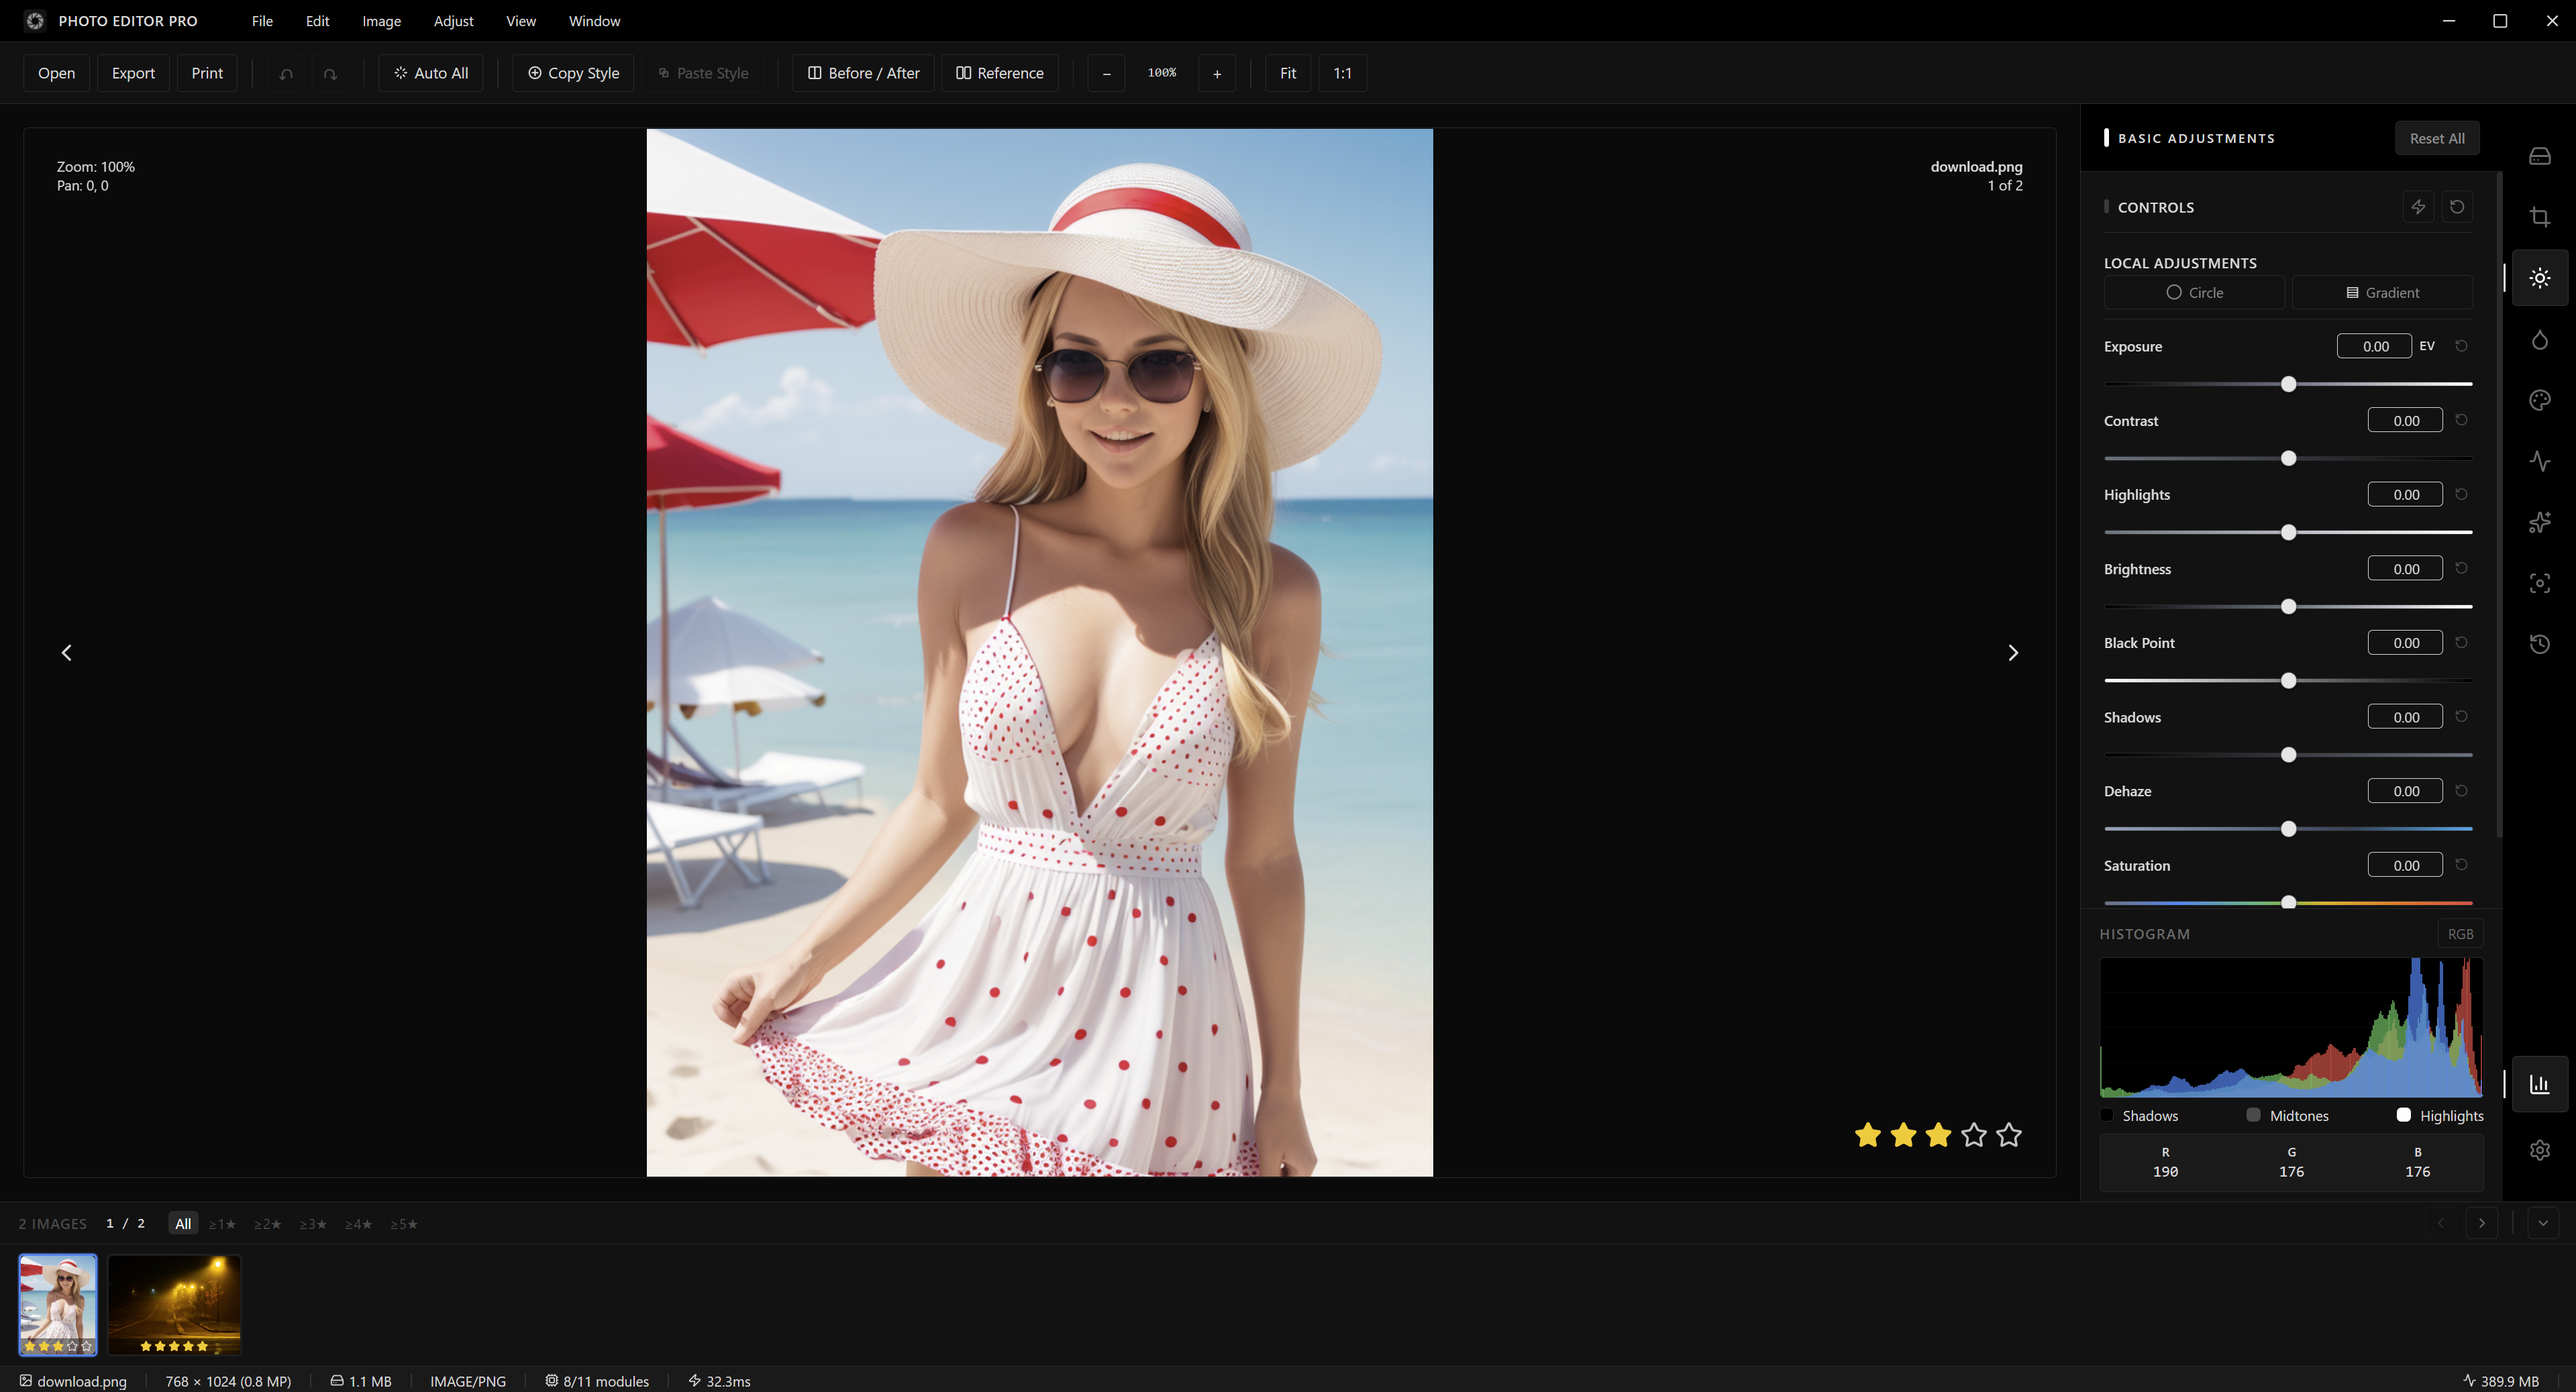
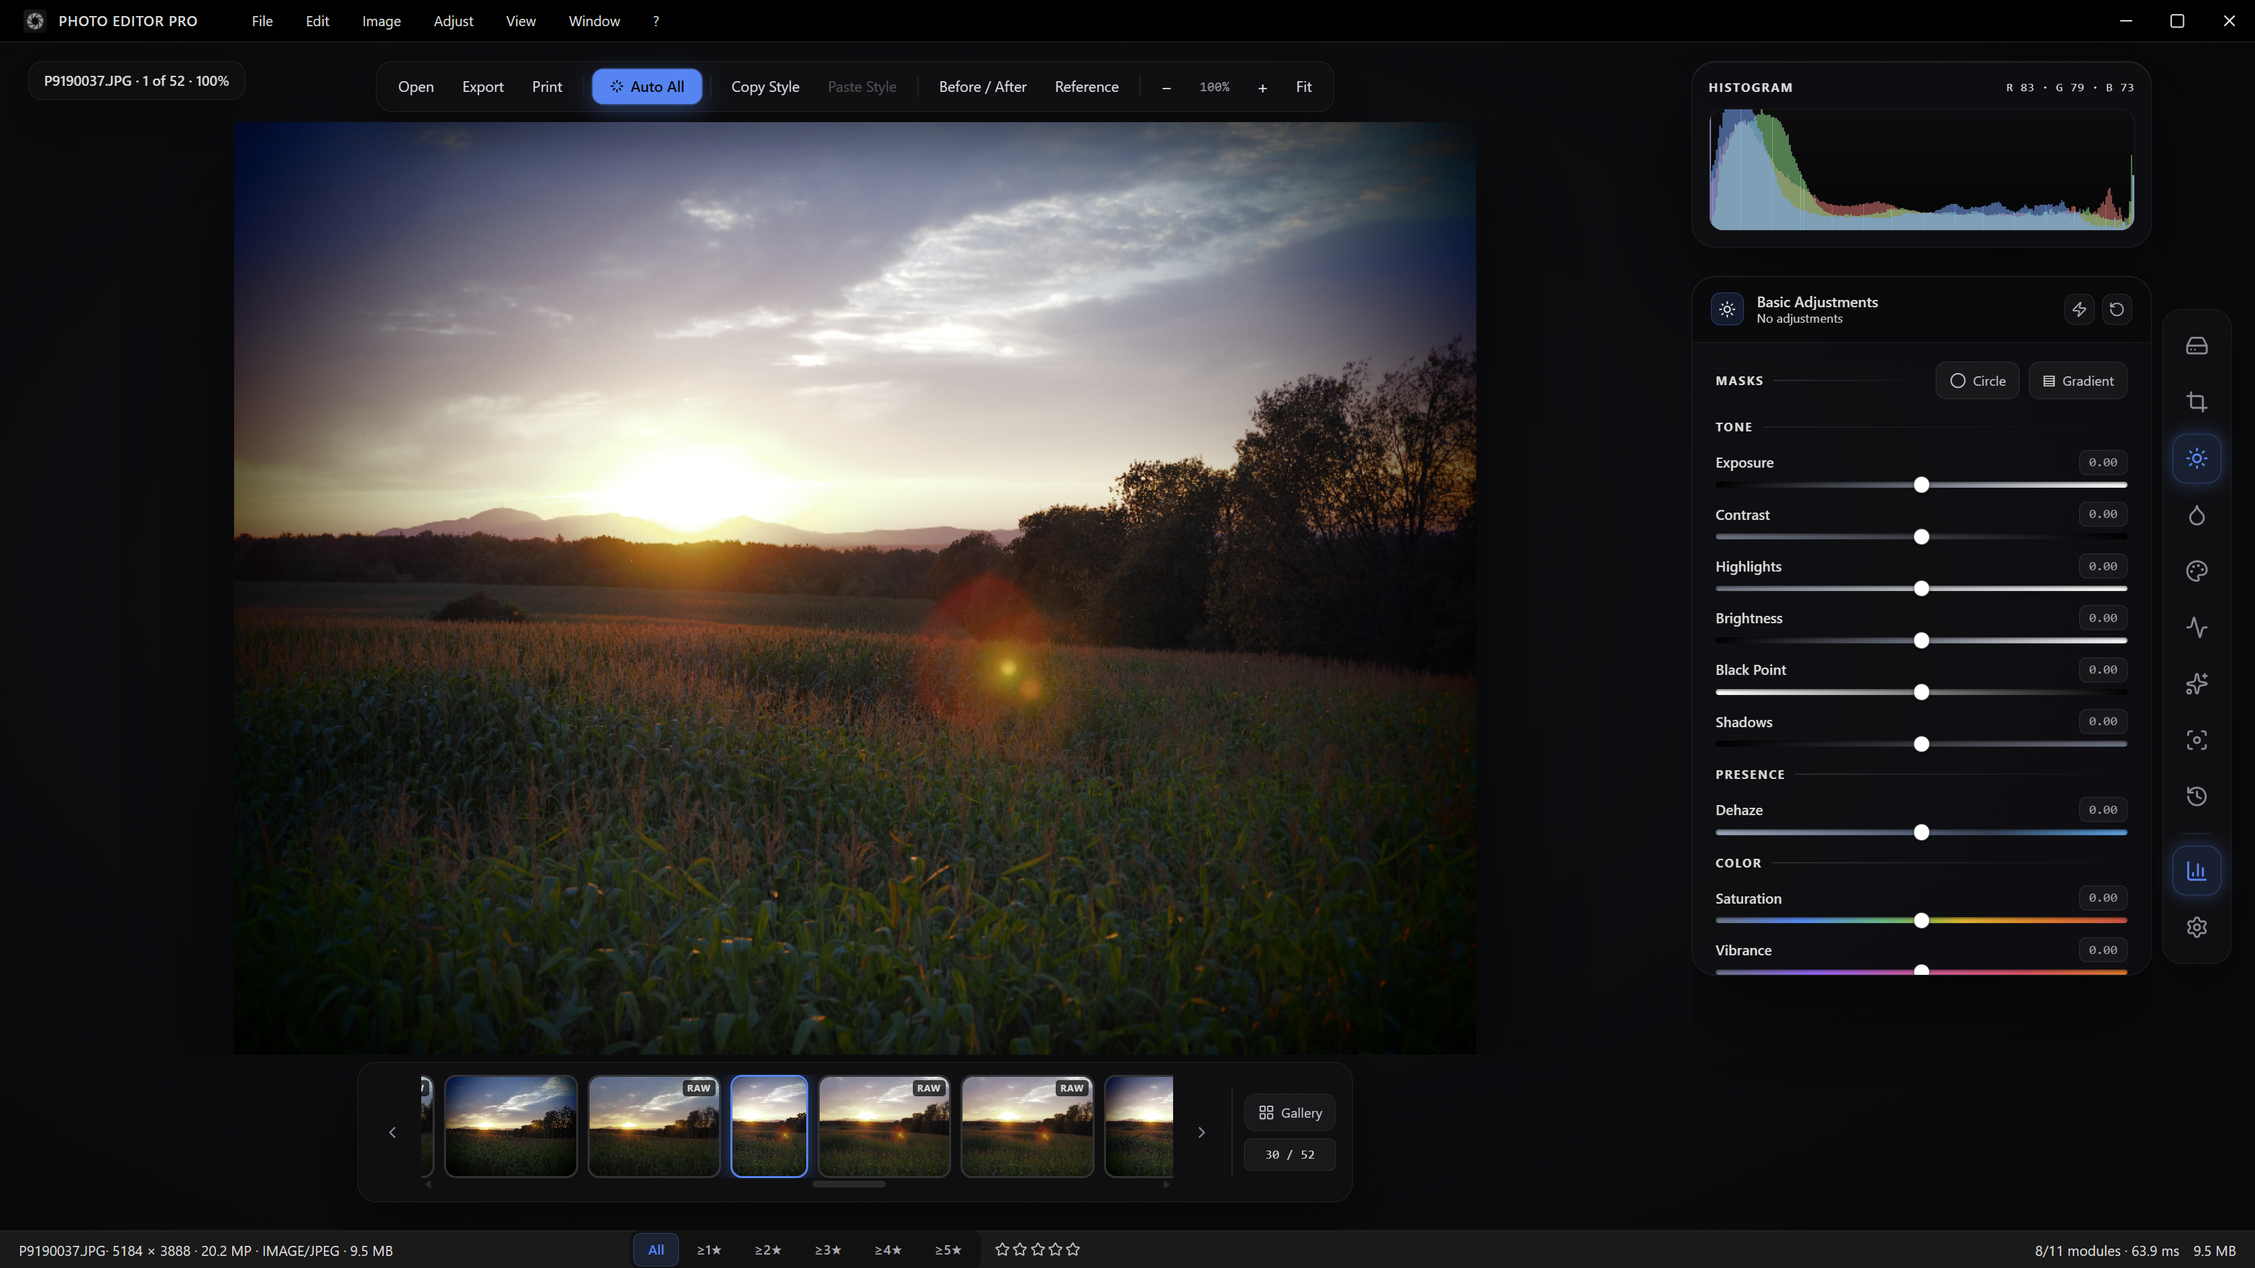
chore(release): v1.14.0 — Glass · Sectioned UI (full workspace redesign + Gallery view)

diff --git a/README.md b/README.md
@@ -1,8 +1,8 @@
 # Photo Editor Pro
 
-![Version](https://img.shields.io/badge/Version-1.13.1-blue)
+![Version](https://img.shields.io/badge/Version-1.14.0-blue)
 ![TypeScript](https://img.shields.io/badge/TypeScript-0_errors-blue)
-![Tests](https://img.shields.io/badge/Tests-1166_passing-brightgreen)
+![Tests](https://img.shields.io/badge/Tests-1248_passing-brightgreen)
 ![Lint](https://img.shields.io/badge/Lint-clean-brightgreen)
 ![GPU](https://img.shields.io/badge/GPU-WebGL2_accelerated-success)
 
@@ -68,9 +68,10 @@ electron-builder's full staging output (unpacked app, block maps) stays in `rele
 - **Color Balance** — per-channel hue shifts in shadows, midtones, and highlights.
 - **Tone Curve** — master and per-channel RGB curves with auto-levels.
 - **Enhance** — Noise Reduction (GPU Non-Local-Means), Sharpening (FidelityFX CAS + Richardson–Lucy deblur), and ×2/×4 upscale (AI super-resolution on GPU, else Lanczos) in a single panel; one **Apply Enhance** button drives all three.
-- **Lens Corrections** — Distortion, Vignetting, Chromatic Aberration, creative Blur, and Film Grain in collapsible accordion sections.
+- **Lens Corrections** — Distortion, Vignetting, Chromatic Aberration, creative Blur, and Film Grain in sectioned groups within one card.
 - **History** — per-image checkpoint timeline; click any checkpoint to restore that state; persists across sessions separately from Ctrl+Z undo.
-- **Histogram** — live RGB and luminosity tone-distribution display.
+- **Histogram** — live RGB and luminosity tone-distribution display in its own floating card.
+- **Gallery** — a library grid view of the open folder with selection, per-tile ratings, rating filter, and double-click-to-edit; opened from the filmstrip dock.
 - **Settings** — application preferences, theme, and workspace configuration.
 
 ## Features
@@ -86,8 +87,9 @@ electron-builder's full staging output (unpacked app, block maps) stays in `rele
 - **Auto adjustments** — one-click *Auto All* (tone, white balance, colour) driven by a learned user-style profile; individual Auto buttons per panel.
 - **Before/After compare** — toggle the unedited original against the current edit with synced zoom and pan.
 - **Reference image compare** — pin a second photo alongside the current image for side-by-side grading reference.
-- **Star ratings + filtering** — press 1–5 to rate the open image (0 clears); rating written to the file as `xmp:Rating`; filter the filmstrip by minimum rating.
-- **Filmstrip** — scrollable, collapsible thumbnail strip; multi-select with Ctrl/Shift+click; mouse-wheel horizontal scroll.
+- **Star ratings + filtering** — press 1–5 to rate the open image (0 clears); rating written to the file as `xmp:Rating`; a shared rating filter (footer + Gallery) hides lower-rated photos everywhere at once.
+- **Filmstrip dock** — a floating, scrollable thumbnail dock aligned under the photo; multi-select with Ctrl/Shift+click; mouse-wheel horizontal scroll; prev/next chevrons and a Gallery shortcut.
+- **Glass workspace UI** — full-bleed canvas with floating glass chrome: toolbar pill with responsive overflow menu, icon rail, histogram + module cards, filename chip, and entrance animations that honor reduced-motion preferences.
 - **Presets** — save and apply named adjustment snapshots across images.
 - **Watermarking** — add text or image watermarks baked into exports.
 - **Web-gallery generation** — export a self-contained browsable HTML gallery from selected photos.

diff --git a/CHANGELOG.md b/CHANGELOG.md
@@ -4,6 +4,18 @@ All notable changes to **Photo Editor Pro** are documented in this file.
 The format is based on [Keep a Changelog](https://keepachangelog.com/), and this
 project adheres to [Semantic Versioning](https://semver.org/).
 
+## [1.14.0] - 2026-07-10
+
+### Added
+- **"Glass · Sectioned" UI — a full workspace redesign.** The editing workspace is now a full-bleed canvas with floating glass chrome: a toolbar pill (with **Auto All** as the primary action and a responsive overflow menu at narrow widths), a floating icon rail, a right column holding a standalone **histogram card** above the **module card**, a floating filmstrip dock (selected thumbnail highlighted with an accent outline, prev/next chevrons, image counter), and a 32-px footer whose center hosts the **rating filter and the current photo's star rating**. Nothing ever overlaps the photo; the toolbar, dock, and footer cluster all align to the photo's center axis and recompute on resize. Why: one consistent, premium card system across every adjustment module instead of ad-hoc per-module styling. Affects: `src/App.tsx`, `src/components/Layout/{Toolbar,IconSidebar,StatusBar}.tsx`, `src/components/Panels/{AdjustmentPanel,HistogramPanel,ThumbnailPanel}.tsx`, `src/components/photoRegion.ts`, `src/index.css`.
+- **Unified module card system.** Every module (Basic Adjustments, White Balance, Color Balance, Tone Curve, Crop, Enhance, Lens Corrections, Local Adjustments, History, RAW Decode) shares one anatomy: an accent icon-chip header with a live state subtitle (e.g. "Cloudy · 5900 K", "Develop · 2 edits active") and Auto ⚡ / Reset ↺ chips, accent section labels (TONE / PRESENCE / COLOR, RATIO / GEOMETRY, …), and shared slider rows with **click-to-edit value chips** (click the value to type an exact number; edited values highlight in accent), gradient tracks, center detents, and double-click reset. Built on a new shared controls library: `src/components/Controls/{SliderRow,SectionLabel,ChipButton,Segmented}.tsx`.
+- **Gallery view.** A library grid opened from the dock's Gallery button: virtualized, lazy-loading tiles with selection (click / Shift range / Ctrl toggle), RAW badges, per-tile star ratings, a rating filter shared with the Develop footer, folder summary in the toolbar and footer, **Batch Process** as the primary action, and double-click to open any photo in Develop. How to use: click **Gallery** in the filmstrip dock; double-click a tile to return to editing. Affects: `src/components/Gallery/GalleryView.tsx`, `src/stores/appStore.ts` (`viewMode`, `ratingFilter`).
+- **Entrance motion.** Cards and the dock rise in once per workspace mount with staggered timing (gallery tiles stagger in on entry); fully disabled under `prefers-reduced-motion`.
+
+### Changed
+- Rating controls moved: the rating filter and the current photo's stars live in the footer center (Develop) and on gallery tiles — no longer overlaid on the photo or filmstrip header. Prev/next moved from photo-edge overlays into the dock.
+- Known deviation from the design spec: the Gallery's "Del removes from folder" interaction is **deferred** — the app has no remove-from-folder flow, and a destructive file operation was deliberately not rushed into this release.
+
 ## [1.13.1] - 2026-07-09
 
 ### Fixed
